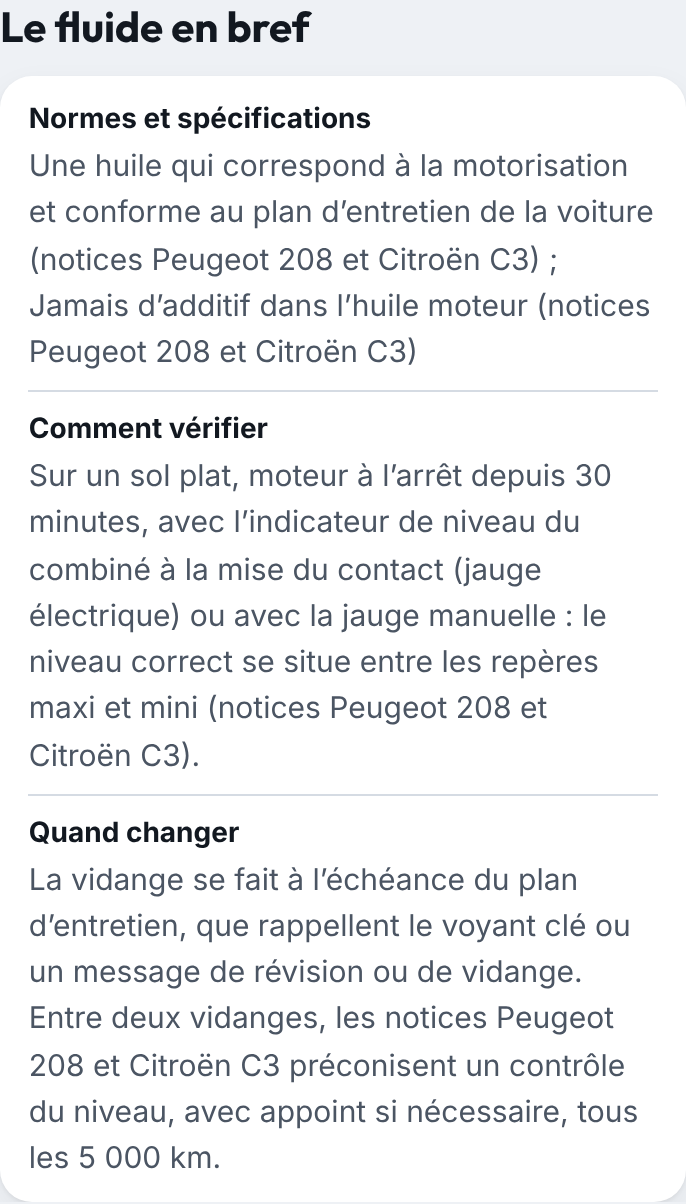
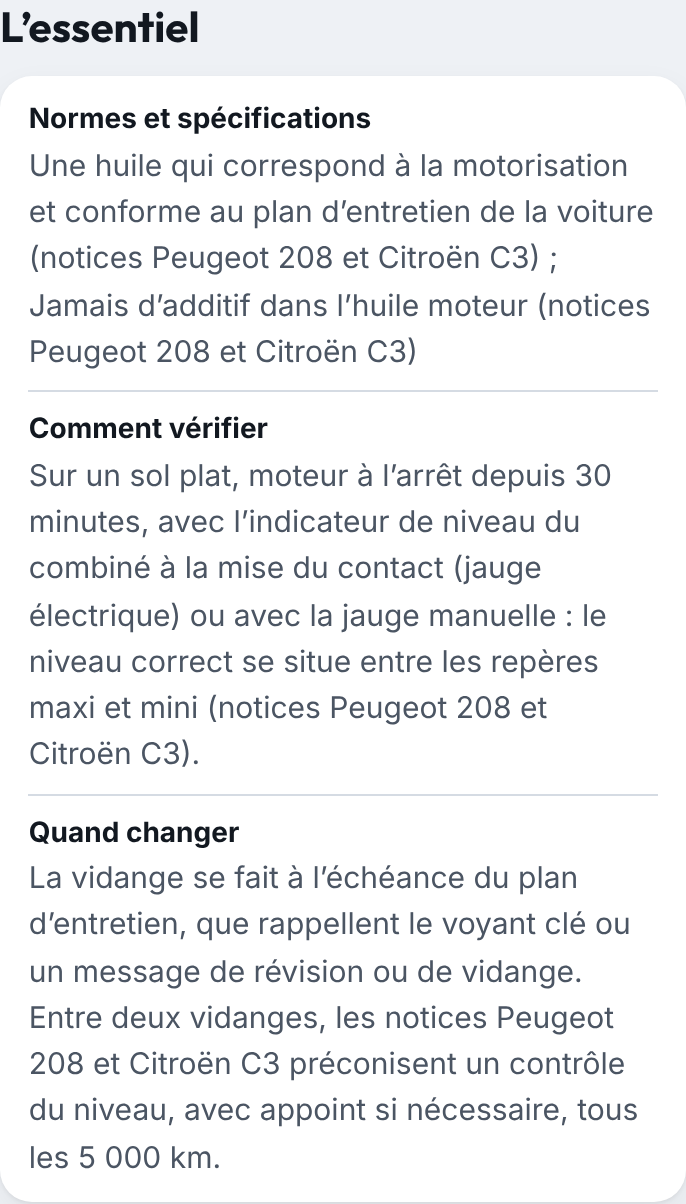
Étape 11, modèle fluide : preuves refaites après la revue (captures à 320 px, mesures, comparaison de production)
- Captures à 320 × 640 ajoutées (375 × 667 et 1366 × 800 refaites), police chargée et de secours.
- FORMAT2-MESURES remesuré : étapes à 3 311 / 3 335 px à 375 (avant 3 943), 3 704 à 320.
- Lighthouse refait ; production-diff.txt : construction de production identique à main (M7).
- README : réponse directe en attente de l'accord de Houssem (B1) ; point à part sur les tableaux en cartes « quand
  une colonne porte un texte long » avec les pages concernées, sans correction (I1) ; points de l'exemple (M4) ;
  ce que couvre la fiche (M6).

Claude-Session: https://claude.ai/code/session_01D9NChPBVJTio8astCmYhoa

diff --git a/travaux/etape-11/modele-fluide/README.md b/travaux/etape-11/modele-fluide/README.md
@@ -1,7 +1,8 @@
 # Étape 11, piste technique : modèle de la page fluide au format 2
 
 Partie technique des modèles de l'étape 11 (docs/03, règle 12, première exception, demande de changement n° 21),
-branche `etape-11/modele-fluide` depuis `main` à 97be2f3. Rien de publié : la production est identique à `main`.
+branche `etape-11/modele-fluide` depuis `main` à 97be2f3. Rien de publié : la production est identique à `main`
+(`production-diff.txt`).
 
 ## Ce que fait le modèle
 
@@ -12,29 +13,48 @@ branche `etape-11/modele-fluide` depuis `main` à 97be2f3. Rien de publié : la 
 2. encadré de décision, qui commence par la **réponse directe** (page informative), puis signature, ligne de transparence,
    bloc « Notices / Base du coût » ;
 3. illustration, sommaire ;
-4. **fiche « Le fluide en bref »** : normes et spécifications, comment vérifier, quand changer. C'est le rôle du fluide et
-   la marche à suivre, comme le veut la charte éditoriale §4 (« rôle, niveau, appoint, marche à suivre ») ;
-5. fiche « Le tutoriel en bref » (format tutoriel) ;
-6. texte rédigé, avec les étapes (`{{etapes}}`) et le tableau (`{{tableau}}`, l'élément unique du type) ;
-7. tableau des notices, si un voyant de la base est rattaché à la page ;
-8. pages liées, sources.
+4. sur un tutoriel : fiche « Le tutoriel en bref », puis la partie du texte qui porte les étapes (`{{etapes}}`), puis la
+   **fiche « L'essentiel »**, puis la suite du texte. Sans tutoriel : fiche « L'essentiel », puis le texte ;
+5. dans le texte, le tableau (`{{tableau}}`, l'élément unique du type) ;
+6. tableau des notices, si un voyant de la base est rattaché à la page ;
+7. pages liées, sources.
+
+**Place de la fiche « L'essentiel » (revue de la PR n° 79, I2, décision du pilotage, règle 6).** Sur un tutoriel, elle
+suit la partie du texte qui porte les étapes, comme les cartes de causes de la page panne suivent la partie qui porte
+l'arbre (demande de changement n° 32 : `insererApresPartieArbre`, deux blocs `data-corps` de part et d'autre). La fiche du
+tutoriel reste avant le texte. Effet mesuré sur la démonstration (375 px, police chargée / de secours) : les étapes passent
+de 3 943 / 3 968 à **3 311 / 3 335** ; à 320 px, de 4 406 à **3 704**.
+
+**Ce que la fiche couvre (revue, M6).** Elle affiche les trois champs du type fluide, et rien d'autre : normes et
+spécifications (`normes`), comment vérifier (`comment_verifier`), quand changer (`quand_changer.texte`, ses sources dans
+« Sources »). La charte éditoriale §4 demande pour un fluide « rôle, niveau, appoint, marche à suivre » : le schéma n'a
+pas de champ pour le rôle ni pour l'appoint, qui restent dans le texte rédigé. Titre : « L'essentiel » (revue, M5).
 
 Choix faits (règle 6) :
 
-- **Composants existants seulement.** La fiche « Le fluide en bref » (`src/lib/fiche-fluide.ts`) est le composant « Fiches »
+- **Composants existants seulement.** La fiche « L'essentiel » (`src/lib/fiche-fluide.ts`) est le composant « Fiches »
   de la charte (carte, intitulé en gras au-dessus de sa valeur, rangées séparées d'un filet). Même balisage que « Le
   symptôme en bref » et « Le texte en bref » : aucun style nouveau. Il restera à l'ajouter au nom des fiches de
   `docs/11` §4 après validation.
-- **Format 2 seul.** Une page fluide au format 1 est refusée à la construction (`refusFormatVagueB`, vague C). Le type
-  fluide n'a pas de modèle au format 1 ; les pages de test (`tests/fixtures`) restent au format 1, et la fiche n'y est pas
-  attendue.
-- **Réponse directe ouverte au type fluide** (demande de changement n° 30, acceptée : règle 2c, « huiles et liquides »
-  parmi les pages informatives, et précision 2a pour le premier écran). Le schéma la réservait aux pages pneus : c'était
-  un oubli de mise en œuvre, corrigé sans demande de changement nouvelle. `fluidePageSchema` l'admet, 40 mots au plus ; les
-  autres types la refusent toujours. `pageFluideF2` l'exige, comme le modèle l'exige pour la page de la pression des pneus.
-  Même rendu et mêmes contrôles : FORMAT2-REPONSE, et FORMAT2-MESURES 2a, qui mesure la réponse directe puis le verdict et
-  l'urgence de la première situation.
+- **Format 2 seul.** Une page fluide au format 1 est refusée à la construction (`refusFormat1`, ancien
+  `refusFormatVagueB`, renommé à la revue, M1 : il couvre aussi la vague C). Le type fluide n'a pas de modèle au format 1 ;
+  les pages de test (`tests/fixtures`) restent au format 1, et la fiche n'y est pas attendue.
 - Pas de causes : le schéma n'en a pas, et aucun champ nouveau n'est ajouté.
+
+### Réponse directe des pages fluides : en attente de l'accord de Houssem
+
+Le schéma la réservait aux pages pneus et obligations. Cette pull request l'ouvre au type fluide : `fluidePageSchema`
+l'admet, 40 mots au plus ; les autres types la refusent toujours ; `pageFluideF2` l'exige, comme le modèle l'exige pour la
+page de la pression des pneus. Même rendu et mêmes contrôles : FORMAT2-REPONSE, et FORMAT2-MESURES 2a, qui mesure la
+réponse directe puis le verdict et l'urgence de la première situation.
+
+**C'est une demande de structure** (revue de la PR, B1) : le dossier de la porte F1 (`travaux/etape-13/f1/porte-f1.md`,
+l. 188-190) dit qu'ouvrir la réponse directe aux pages fluides « est une demande de structure », et `docs/08` (l. 49)
+la réserve aux pages pneus et obligations. Décision du pilotage : le changement reste dans cette pull request, qui reste en
+brouillon ; il **attend l'accord de Houssem** sur une demande de changement courte que le pilotage lui présente. Après
+cet accord, `docs/08` l. 49 est à mettre à jour (« pages pneus et obligations et pages fluides »). Sans accord, il faut
+retirer l'ouverture du schéma et l'exigence du modèle, et la page fluide perd sa réponse directe (précision 2a : le
+premier écran se mesure alors sur la première situation).
 
 Contrôle nouveau : **FICHE-FLUIDE-ABSENTE / FICHE-FLUIDE-INCOMPLETE** (`src/lib/controle.ts`, `CONTROLES.md`). Une page
 fluide au format 2 affiche une seule fiche, au texte exact ; les autres pages n'en ont pas. Les marqueurs `{{etapes}}` et
@@ -44,35 +64,77 @@ s'appliquent comme ailleurs.
 ## Page de démonstration
 
 `tests/demo/format2/fluide/niveau-huile.md` vient de l'exemple de la préparation (`preparation/etape-11`,
-`exemples/fluide/niveau-huile.md`, 4e6851f), brouillon jamais validé. Trois changements seulement :
+`exemples/fluide/niveau-huile.md`, 4e6851f), brouillon jamais validé. Son en-tête le dit en premier (revue, M3) et donne
+la provenance des lignes :
 
-- le commentaire d'en-tête ;
-- la réponse directe, celle que l'exemple propose en commentaire (31 mots selon le décompte du schéma ; l'exemple en
-  annonçait 29) ;
-- le lien vers la page mère « huile moteur », écrit en texte. Cette page n'est pas construite, donc le lien était cassé
-  (`npm run liens` : LIEN-CASSE). **Le contrôle de la construction ne le signale pas** : un lien du texte vers une page
-  du plan, liée mais pas encore construite, passe. C'est à corriger dans l'exemple, ou à publier « huile moteur » avant ou
-  avec cette page.
+- lignes 1 et 2 de l'encadré (niveau sous le mini, au-dessus du maxi) : reprises mot pour mot des lignes 3 et 4 saisies du
+  dossier « moteur PureTech » (comparaison faite : identiques), dont les extraits ont été relus le 16/11 et que Houssem a
+  validées avec les exemples de la porte 10 (16/11, 19 h 26). Elles ne sont pas validées pour cette page ;
+- lignes 3 et 4 : lignes `huile-niveau` et `huile-pression-rouge` de la base voyants ;
+- tout le reste : brouillon de l'exemple.
+
+Trois changements par rapport à l'exemple : le commentaire d'en-tête ; la réponse directe, celle que l'exemple propose en
+commentaire (31 mots selon le décompte du schéma ; l'exemple en annonçait 29) ; le lien vers la page mère « huile moteur »,
+écrit en texte. Cette page n'est pas construite, donc le lien était cassé (`npm run liens` : LIEN-CASSE). **Le contrôle de
+la construction ne le signale pas** : un lien du texte vers une page du plan, liée mais pas encore construite, passe.
 
 La page ne passe que par la construction de démonstration (`npm run demo:format2`), jamais par `exemples/` ni par
 `src/content`. Elle est ajoutée à `lighthouserc-demo-format2.json`.
+
+### Points de l'exemple à reprendre avec sa rédaction (revue, M4 ; rien n'est changé ici)
+
+L'exemple est un brouillon de la préparation anticipée : ces points se corrigent dans sa rédaction, pas dans le modèle.
+
+1. **« Oui : Non, arrêtez-vous immédiatement. »** La section « Voyant d'huile rouge : faut-il s'arrêter ? » écrit
+   « Oui : {{verdict:huile-pression-rouge}}. », et le verdict rendu commence par « Non » (libellé de la grille : peut-on
+   rouler ?). À réécrire sans « Oui : » (« {{verdict:huile-pression-rouge}}. Ce voyant signale… »).
+2. **Normes sans norme.** `normes` donne deux consignes (« une huile qui correspond à la motorisation et conforme au plan
+   d'entretien », « jamais d'additif »), aucune spécification (viscosité, norme ACEA ou constructeur). L'intitulé
+   « Normes et spécifications » promet plus que le contenu : soit l'exemple cite une spécification sourcée par notice, soit
+   l'intitulé se discute avec le schéma (point 2 ci-dessous).
+3. **Outils joints dans la fiche du tutoriel.** Les deux outils (jauge ou indicateur ; huile pour l'appoint) s'affichent
+   joints par « ; » dans une seule valeur, comme sur toute page au format tutoriel (`modeleFicheTutoriel`, composant validé
+   à la porte F1). Une liste serait une variante du composant « Fiches », à dessiner d'abord (charte §6).
+4. Le lien vers « huile moteur » (ci-dessus) : à écrire en texte dans l'exemple, ou publier « huile moteur » avant ou avec
+   cette page.
+
+## Point à part : tableaux du texte « en cartes quand une colonne porte un texte long » (revue, I1 ; rien n'est corrigé)
+
+La charte graphique (§4, « Tableaux du texte », `docs/11` l. 95) demande, sur téléphone, des cartes « quand une colonne
+porte un texte long, ou au-delà de trois colonnes ». Le code (`tableauxDuTexteFormat2`, `src/lib/format2.ts` l. 799)
+n'applique que la seconde condition : un tableau de trois colonnes ou moins reste en grille, quelle que soit la longueur
+de ses cellules. La charte ne chiffre pas « texte long » : il faudra un seuil (en mots par cellule) pour le contrôler.
+
+Pages concernées, relevé sur les constructions (`[data-corps] table`, mots de la plus longue cellule de chaque colonne) :
+
+| Page | En ligne | Format en ligne | Colonnes | Plus longue cellule | Rendu au format 2 aujourd'hui | Avec la règle de la charte |
+|---|---|---|---|---|---|---|
+| Moteur PureTech (`/moteur-puretech/`) | oui | 2 | 6 | 23 mots | cartes | inchangé |
+| Pression des pneus (`/pression-des-pneus/`) | oui | 1 (format 2 au lot F3, #77) | 4 | 38 mots | cartes (F3) | inchangé |
+| Loi montagne (`/loi-montagne/`) | oui | 1 (format 2 au lot F3, #77) | 3 | 18 mots (« Ce qu'il faut savoir ») | grille (F3) | **change** : cartes, si 18 mots sont un texte long |
+| Niveau d'huile (démonstration, vague C) | non | – | 3 | 35 mots | grille | **change** : cartes |
+| Nettoyer le FAP (lot B4, pas en ligne) | non | – | 3 | 13 mots | grille | selon le seuil |
+| Changer la batterie, recharger la batterie (lot B2, pas en ligne) | non | – | 5 et 4 | 16 et 17 mots | cartes | inchangé |
+
+Parmi les pages en ligne, seule **la loi montagne** changerait, et seulement une fois passée au format 2 (lot F3) : au
+format 1, ses tableaux ne passent pas par `tableauxDuTexteFormat2`. Les cas décrits par marque des pages code défaut sont
+un autre composant (une seule carte), hors de cette règle.
 
 ## Preuves
 
 | Preuve | Résultat |
 |---|---|
 | `npm run schemas`, `npm test` | 0 erreur ; 864 tests sur 864, dont `tests/format2-fluide.test.ts` (8) |
-| `npm run build`, recette des exemples, `npm run liens` | 0 erreur (22 pages) ; 0 erreur ; 647 liens, 0 problème |
+| `npm run build`, recette des exemples, `npm run liens` | voir la description de la pull request (sorties de la tête) |
 | `npm run demo:format2` | 26 pages, 0 erreur (empreinte absente de la page de démonstration, attendue) ; liens : 842, 0 problème |
-| Indexation durable, `verifier:modes` | 0 erreur ; 4 OK |
-| Production comparée à `main` | `SITE_INDEXABLE=true npx astro build` des deux côtés (`main` 97be2f3), puis `diff -rq` : **identique** |
-| FORMAT2-MESURES (`mesures-format2.txt`) | 25 pages, 150 mesures, **0 erreur**. Page fluide à 375 × 667 (police chargée / de secours) : réponse directe jusqu'à 424 / 448 ; verdict et urgence de la première situation jusqu'à 538 / 563 (667 au plus, précision 2a), son action jusqu'à 646 / 671 ; bas de l'encadré 1 743 / 1 767 (4 lignes) ; **illustration 2 226 / 2 251, au-delà de trois écrans** (2 001), signalée : encadré de 4 lignes, puis bloc « Notices » ; **étapes 3 943 / 3 968, à 34 px du seuil de six écrans** (4 002) ; page 9 460 / 9 485. À 320 px : 320 de large, aucun débordement. À 1366 : réponse 315, première situation 428, illustration 1 316, étapes 2 669 |
-| Lighthouse mobile (`lighthouse.txt`) | 100 / 100 / 100, CLS 0 (SEO 66 : construction en noindex) |
-| Captures (`captures/`, 34 PNG) | 375 × 667 et 1366 × 800, police chargée et de secours : premier écran, page entière, encadré, bloc « Notices », illustration, sommaire, fiche du fluide, fiche du tutoriel, étapes, tableau. Une capture en police de secours identique octet pour octet n'est pas gardée |
+| Production comparée à `main` (`production-diff.txt`, revue, M7) | `SITE_INDEXABLE=true npx astro build` des deux côtés (`main` 97be2f3), puis `diff -rq` : **identique** |
+| FORMAT2-MESURES (`mesures-format2.txt`) | 25 pages, 150 mesures, **0 erreur**. Page fluide à 375 × 667 (police chargée / de secours) : réponse directe jusqu'à 424 / 448 ; verdict et urgence de la première situation jusqu'à 538 / 563 (667 au plus, précision 2a), son action jusqu'à 646 / 671 ; bas de l'encadré 1 743 / 1 767 (4 lignes) ; **illustration 2 226 / 2 251, au-delà de trois écrans** (2 001), signalée : encadré de 4 lignes, puis bloc « Notices » ; étapes 3 311 / 3 335 (six écrans : 4 002) ; page 9 460 / 9 485. À 320 × 640 (les deux polices) : réponse 470, verdict et urgence 601, première situation 729, illustration 2 579, étapes 3 704, page 10 344 / 10 395, 320 de large, aucun débordement. À 1366 : réponse 315, verdict et urgence 383, première situation 428, illustration 1 316, étapes 2 269 |
+| Lighthouse mobile (`lighthouse.txt`) | 3 passages, médianes : 100 / 100 / 100, CLS 0, LCP 907 ms (SEO 66 : construction en noindex) |
+| Captures (`captures/`, 49 PNG ; `mesures-captures.json`) | 320 × 640, 375 × 667 et 1366 × 800, police chargée et de secours : premier écran, page entière, encadré, bloc « Notices », illustration, sommaire, fiche « L'essentiel », fiche du tutoriel, étapes, tableau. Une capture en police de secours identique octet pour octet à celle en police chargée n'est pas gardée |
 
 ## Ce qui manque au schéma `fluidePageSchema` pour ce modèle (non changé, sauf la réponse directe)
 
-1. ~~`reponse_directe`~~ : ouverte au type fluide dans cette pull request (demande n° 30, règle 2c).
+1. ~~`reponse_directe`~~ : ouverte au type fluide dans cette pull request, en attente de l'accord de Houssem (ci-dessus).
 2. **Sources de `comment_verifier` et de `normes`** : seul `quand_changer` a ses `sources`. Les deux autres champs
    écrivent leurs notices dans le texte (« (notices Peugeot 208 et Citroën C3) »). Ces sources n'entrent donc ni dans
    « Sources » ni dans un contrôle, et le texte de la fiche porte des références que la règle 2d sort du texte ailleurs.
@@ -80,5 +142,6 @@ La page ne passe que par la construction de démonstration (`npm run demo:format
 3. **`normes` en liste de textes** : la fiche les joint par « ; », ce qui donne « … C3) ; Jamais d'additif… »
    (majuscule après un point-virgule). Une liste dans la fiche serait une variante du composant, à dessiner d'abord
    (charte §6).
-4. **`causes`** (pas demandé, aucun champ ajouté) : les questions « pourquoi ma voiture consomme de l'huile / du liquide »
+4. **Rôle et appoint** (charte éditoriale §4) : pas de champ ; ils restent dans le texte (M6, ci-dessus).
+5. **`causes`** (pas demandé, aucun champ ajouté) : les questions « pourquoi ma voiture consomme de l'huile / du liquide »
    sont traitées dans le texte, sans cartes de causes. Le coût se calcule par `cout_probable.pieces`.
